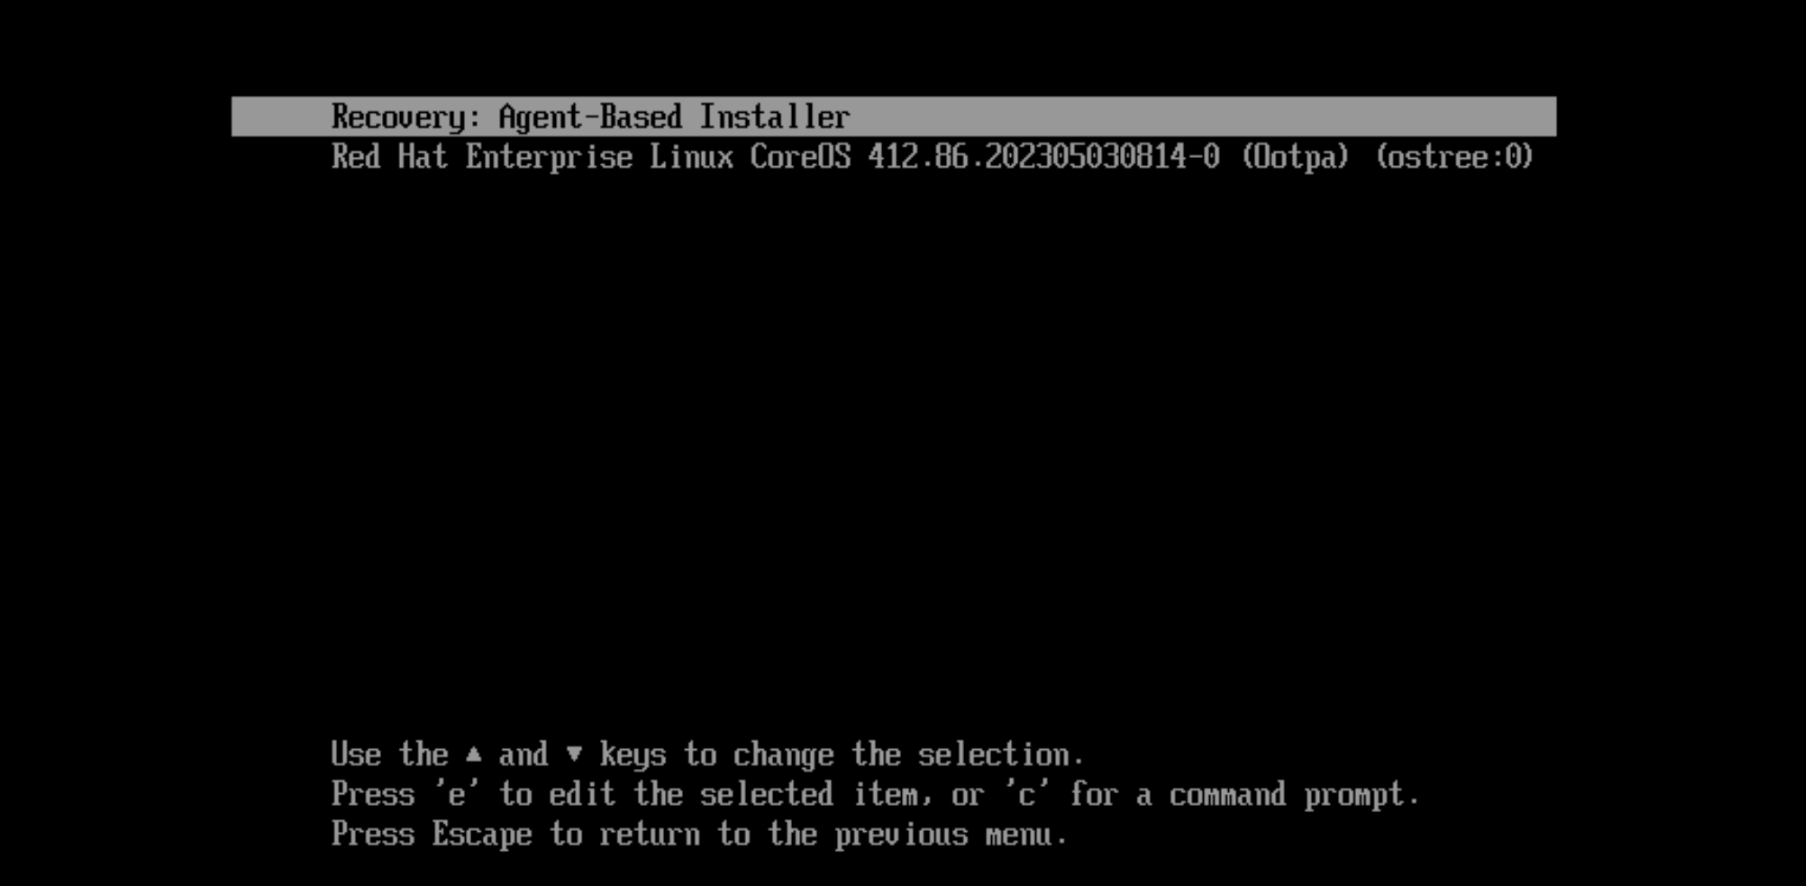
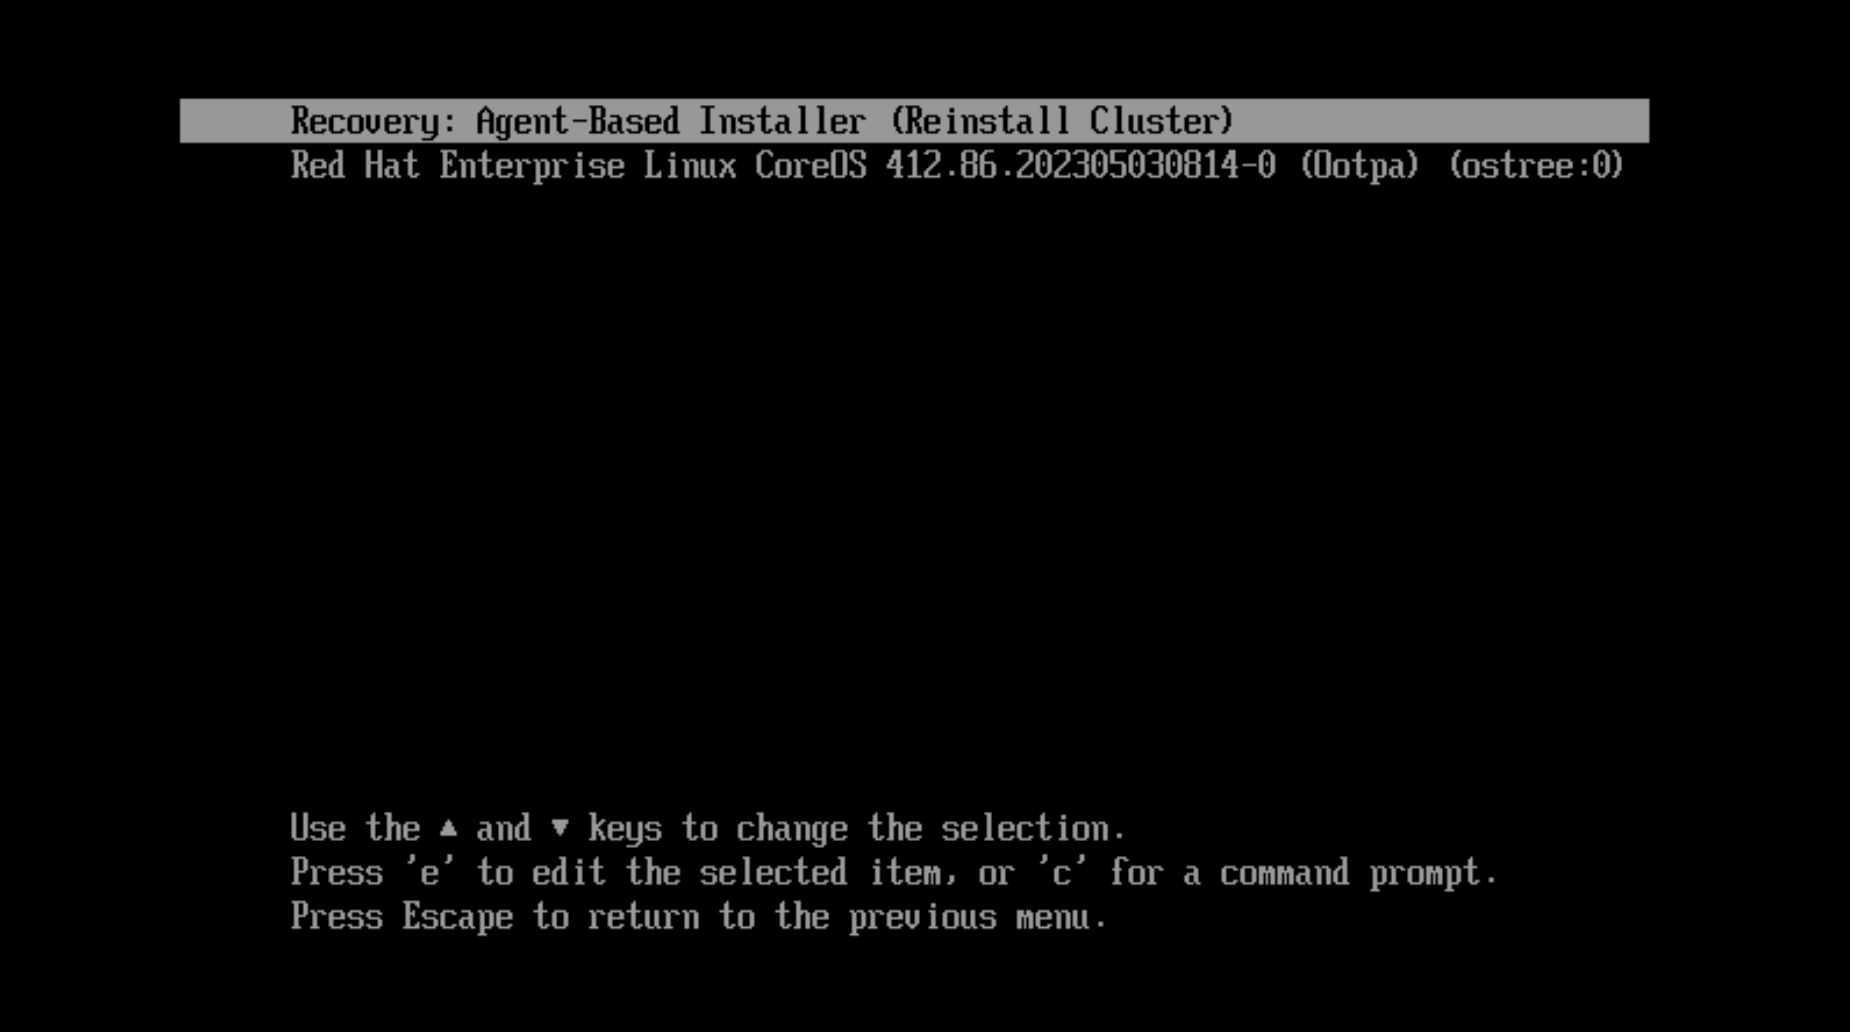
MGMT-15043: changed recovery grub menu item text
To emphasis the usage of recovery menu item,
added the following text: '(Reinstall Cluster)'

Changed region(s): [[0.155, 0.7923, 0.8062, 0.9752], [0.093, 0.0914, 0.8992, 0.2133]]

diff --git a/pkg/consts/consts.go b/pkg/consts/consts.go
@@ -7,7 +7,7 @@ const (
 	GrubDefault         = 0
 	GrubMenuEntryName   = "Agent-Based Installer"
 	// For installation ignition
-	GrubMenuEntryNameRecovery = "Recovery: Agent-Based Installer"
+	GrubMenuEntryNameRecovery = "Recovery: Agent-Based Installer (Reinstall Cluster)"
 	GrubDefaultRecovery       = 1
 	UserCfgFilePath           = "/boot/grub2/user.cfg"
 
